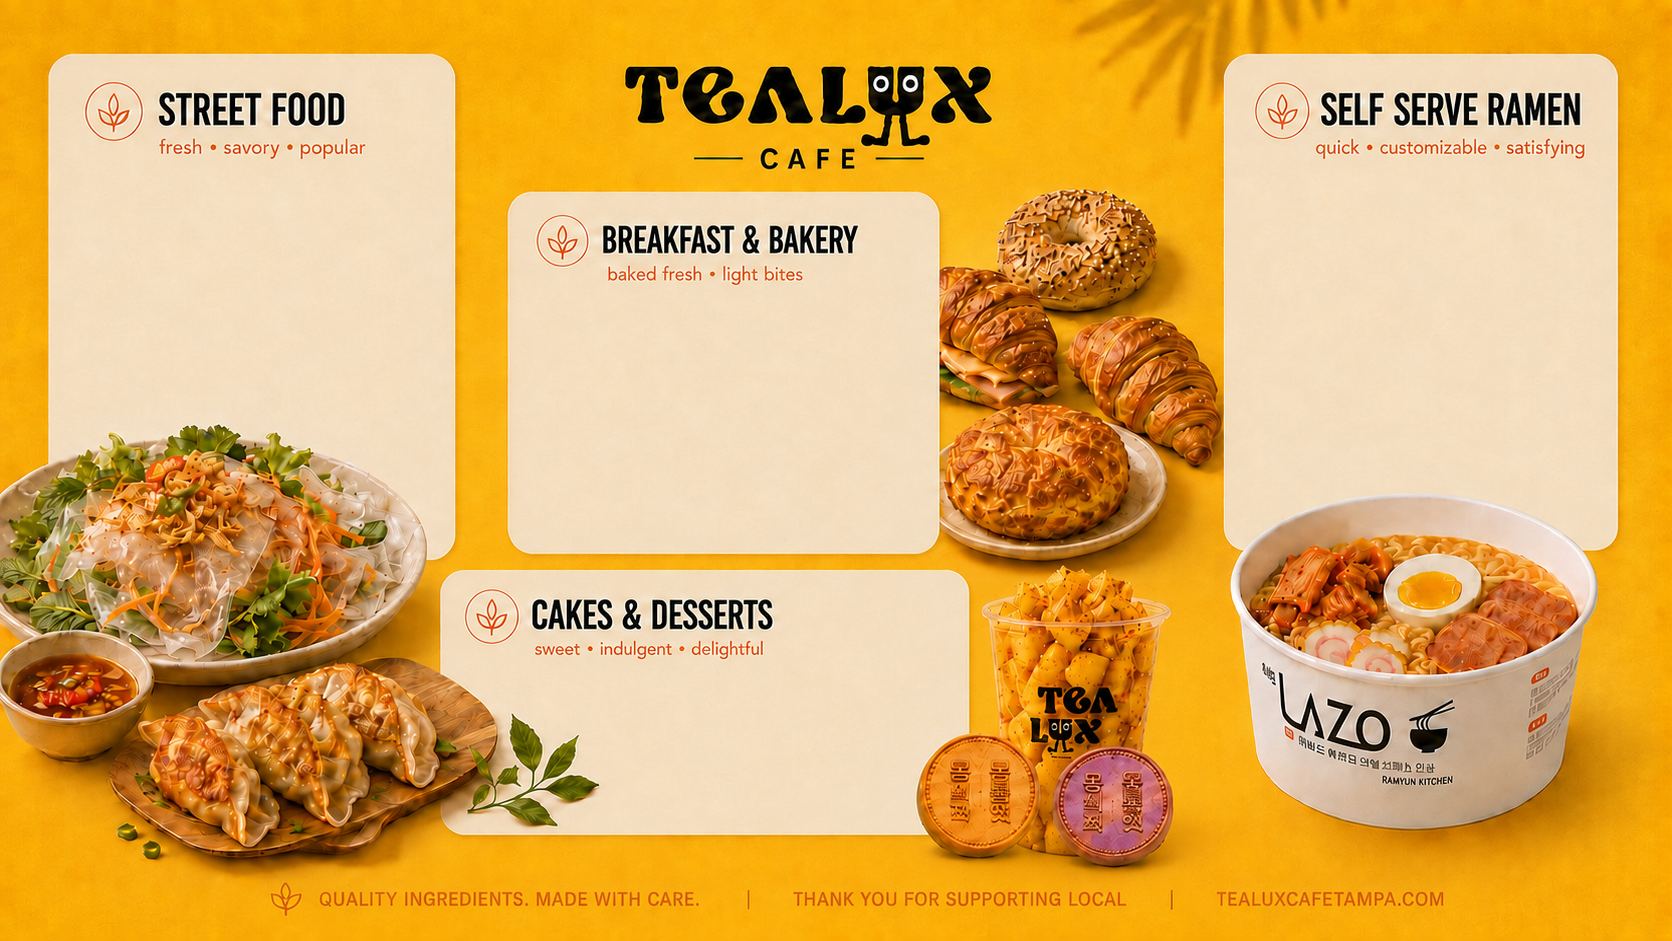
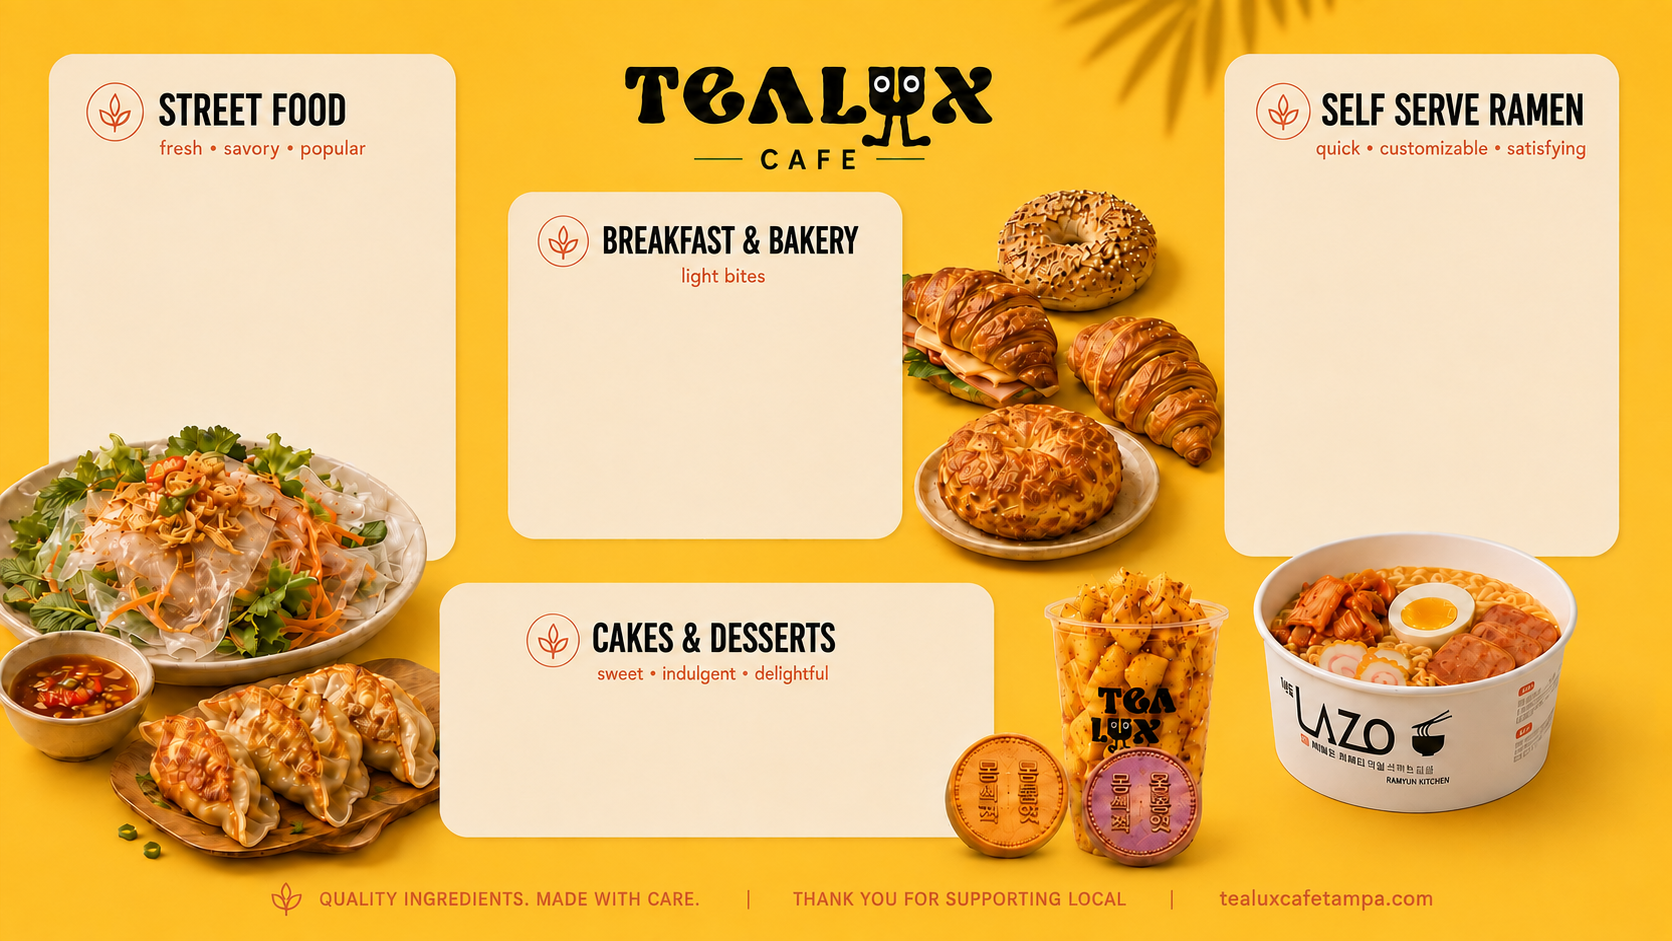
Swap in updated Screen 3 art, source ramen toppings from item description
New background image replaces the one from the previous commit (box
positions shifted again), so all 5 box coordinates were re-measured.

Self Serve Ramen's toppings line now reads from the priced item's
Description field instead of a separate manual field in the board editor,
removing a duplicate place to edit the same text.

diff --git a/admin/board.html b/admin/board.html
@@ -146,9 +146,6 @@
           if ((pe.free_toppings_count || 0) !== (ne.free_toppings_count || 0)) {
             lines.push(`${label}: free toppings count changed from ${pe.free_toppings_count || 0} to ${ne.free_toppings_count || 0}`);
           }
-          if ((pe.ingredients || '') !== (ne.ingredients || '')) {
-            lines.push(`${label}: ingredients updated`);
-          }
           return;
         }
 
@@ -399,6 +396,12 @@
         .map((i) => `<option value="${i.id}" ${extra.price_item_id === i.id ? 'selected' : ''}>${escapeHtml(i.name)} — ${money(i.price)}</option>`)
         .join('');
 
+      const ingredientsPreview = currentItem
+        ? (currentItem.description
+          ? escapeHtml(currentItem.description)
+          : '<em>No description set — toppings line will be blank on the board.</em>')
+        : '<em>Pick a priced item first.</em>';
+
       card.innerHTML = `
         <div class="section-card-head">
           <h3>${escapeHtml(BOX_LABELS[section.box_key])} <span class="box-tag">${section.box_key} · special</span></h3>
@@ -413,8 +416,12 @@
             <input type="number" min="0" data-ramen-toppings value="${extra.free_toppings_count || 0}" />
           </div>
           <div class="field">
-            <label>Ingredients (shown at bottom of box)</label>
-            <input type="text" data-ramen-ingredients placeholder="Egg • Rice Cake • Kimchi • Dumpling • Spam" value="${escapeHtml(extra.ingredients || '')}" />
+            <label>Toppings list (shown at bottom of box)</label>
+            <p style="font-family:Arial; font-size:0.8rem; opacity:0.7;" data-ramen-ingredients-preview>${ingredientsPreview}</p>
+            <p style="font-family:Arial; font-size:0.7rem; opacity:0.5;">
+              Pulled from the priced item's Description — edit it on
+              <a href="/admin/item.html?id=${currentItem ? currentItem.id : ''}" target="_blank" rel="noopener">that item's page</a>.
+            </p>
           </div>
         </div>
       `;
@@ -422,15 +429,11 @@
       card.querySelector('[data-ramen-item]').addEventListener('change', (e) => {
         section.extra = { ...section.extra, price_item_id: e.target.value || null };
         markDirty();
+        renderSections();
         drawPreview();
       });
       card.querySelector('[data-ramen-toppings]').addEventListener('input', (e) => {
         section.extra = { ...section.extra, free_toppings_count: parseInt(e.target.value, 10) || 0 };
-        markDirty();
-        drawPreview();
-      });
-      card.querySelector('[data-ramen-ingredients]').addEventListener('input', (e) => {
-        section.extra = { ...section.extra, ingredients: e.target.value };
         markDirty();
         drawPreview();
       });

diff --git a/admin/js/board-renderer.js b/admin/js/board-renderer.js
@@ -39,11 +39,11 @@ const BOARD_TEMPLATES = {
   screen_3: {
     image: '/templates/Screen_3.png',
     boxes: [
-      { key: 'street_food', x: 48, y: 54, w: 406, h: 504, contentY: 106, style: 'list' },
-      { key: 'breakfast_bakery', x: 508, y: 192, w: 430, h: 360, contentY: 93, style: 'list' },
-      { key: 'desserts', x: 441, y: 570, w: 251, h: 263, contentY: 90, style: 'list' },
-      { key: 'cakes', x: 717, y: 570, w: 251, h: 263, contentY: 90, style: 'static' },
-      { key: 'self_serve_ramen', x: 1224, y: 54, w: 393, h: 736, contentY: 105, style: 'special' },
+      { key: 'street_food', x: 49, y: 54, w: 405, h: 504, contentY: 106, style: 'list' },
+      { key: 'breakfast_bakery', x: 509, y: 192, w: 392, h: 346, contentY: 95, style: 'list' },
+      { key: 'desserts', x: 440, y: 584, w: 264, h: 252, contentY: 101, style: 'list' },
+      { key: 'cakes', x: 729, y: 584, w: 264, h: 252, contentY: 101, style: 'static' },
+      { key: 'self_serve_ramen', x: 1225, y: 54, w: 393, h: 501, contentY: 106, style: 'special' },
     ],
   },
 };
@@ -356,7 +356,9 @@ function drawRamenBox(ctx, box, section, itemsById) {
   const item = priceItemId ? itemsById[priceItemId] : null;
   const priceStr = (item && item.status !== 'inactive') ? money(item.price) : '—';
   const freeToppings = (section.extra && section.extra.free_toppings_count) || 0;
-  const ingredients = (section.extra && section.extra.ingredients) || '';
+  // Toppings list is just the priced item's Description field (edited via
+  // item.html) — no separate ramen-specific text field to keep in sync.
+  const ingredients = (item && item.description) || '';
 
   ctx.textAlign = 'left';
   ctx.fillStyle = COLOR_ACCENT;

diff --git a/CONTINUE_FROM_HERE.md b/CONTINUE_FROM_HERE.md
@@ -2,38 +2,54 @@
 
 Last worked on: 2026-08-15. Read this before doing anything else on the admin tool.
 
-## In progress: Screen 3 redesign (2026-08-15) — committed and pushed, DB migration run, NOT yet click-tested live
+## In progress: Screen 3 redesign (2026-08-15) — migration_006 run live, migration_007 NOT yet run, NOT yet click-tested live
 
-New background art dropped in (`templates/examples/ChatGPT Image Aug 15, 2026, 10_54_51 AM.png`,
-now copied to `templates/Screen_3.png`) with different box positions than the old design, plus a
-content change: the old single "Cakes & Desserts" box is now two side-by-side columns —
-"Desserts" (still a real editable item list: Tofu Dessert, Mango Shake, Korean Cheese Coin, Korea
-Ube Cheese Coin) and "Cakes" (cakes rotate daily, so instead of listing them it's now a fixed
-"please see cashier for today's specials" message — new box style `'static'`, no items, nothing
-to edit).
+New background art dropped in twice today — the first version
+(`ChatGPT Image Aug 15, 2026, 10_54_51 AM.png`) was superseded within the same session by a second
+(`ChatGPT Image Aug 15, 2026, 11_55_00 AM.png`, "use this one instead"), both archived in
+`templates/examples/`. **`templates/Screen_3.png` is currently the 11:55 AM version** — box
+coordinates in `board-renderer.js` were re-measured a second time against it (all 5 boxes shifted
+again vs. the first version; not a straight recolor either time). Content change from the first
+round still stands: the old single "Cakes & Desserts" box is two side-by-side columns —
+"Desserts" (real editable item list: Tofu Dessert, Mango Shake, Korean Cheese Coin, Korea Ube
+Cheese Coin) and "Cakes" (fixed `'static'`-style "please see cashier for today's specials"
+message, cakes rotate daily so no item list).
+
+Also changed today: **Self Serve Ramen's toppings line now comes from the priced item's
+Description field** (edited in `item.html`) instead of a separate manual "Ingredients" text box in
+the board editor — one less place to keep the same text in sync. User asked to "add items for the
+self serve ramen menu"; clarified via question that this meant sourcing the toppings list from the
+item, not adding a real multi-item list to the box (it stays a one-priced-item `'special'` layout).
 
 Changed:
-- `admin/js/board-renderer.js` — all 5 screen_3 box coordinates re-measured (PIL color-boundary
-  scan) against the new background; `cakes_desserts` box replaced by `desserts` (list) + `cakes`
-  (new `static` style, draws `CAKES_STATIC_TEXT` centered/wrapped, no section data needed).
+- `admin/js/board-renderer.js` — screen_3 box coordinates (2nd re-measure, PIL color-boundary
+  scan); `drawRamenBox` now reads `ingredients` from `itemsById[priceItemId].description` instead
+  of `section.extra.ingredients`.
 - `admin/board.html` — `BOX_LABELS`, `ensureSectionsForTemplate`, `renderSections` (new
-  `renderStaticSectionCard`), `diffSections` all updated for the new box_keys and `static` style.
+  `renderStaticSectionCard`), `diffSections` updated for the desserts/cakes split; ramen card's
+  manual "Ingredients" input replaced with a read-only preview of the picked item's description
+  + a link to edit it on that item's page.
 - `supabase/migration_006_screen3_desserts_split.sql` — **run on the live DB 2026-08-15, no
   errors.** Widened the `sections.style` check constraint to allow `'static'`, renamed the live
-  `cakes_desserts` section to `desserts` (keeps its existing section_items), stripped the 8
-  rotating cake items out of it (they stay in the catalog, just unlinked from this board), and
-  inserted the new static `cakes` section.
-- `supabase/seed_boards.sql`, `supabase/seed_items.sql` — updated so a *fresh* install seeds the
-  new `desserts`/`cakes` box_keys directly instead of the old `cakes_desserts`.
-- `admin/SETUP.md` — documents `migration_006` as step 8 in the run order.
+  `cakes_desserts` section to `desserts`, stripped the 8 rotating cake items out of it (stay in
+  the catalog, unlinked from this board), inserted the new static `cakes` section.
+- `supabase/migration_007_ramen_ingredients_from_item.sql` — **new, NOT yet run on the live DB.**
+  Backfills the "Self Serve Ramen" item's Description from the old `extra.ingredients` value, then
+  drops that key from `extra`. **Must run before this deploys**, or the live board's toppings line
+  goes blank (old `extra.ingredients` still has the text, but the renderer stops reading it as of
+  this commit).
+- `supabase/seed_boards.sql`, `supabase/seed_items.sql` — fresh installs seed `desserts`/`cakes`
+  directly, and seed the ramen item's Description instead of `extra.ingredients`.
+- `admin/SETUP.md` — documents both migrations (steps 8–9) and the ramen-description behavior.
 
-Coordinate accuracy was checked by rendering the real `board-renderer.js` against mock data in a
-browser (not against live data in the actual admin tool) — all 5 boxes lined up correctly against
-the new art. **Still needs a real click-through of Screen 3 in `board.html` with live data** to
-confirm nothing looks off in practice — nobody has done that yet.
+Coordinate accuracy was checked by drawing measured rectangles over the source PNG with PIL and
+eyeballing the overlay (pixel-precise) — not by rendering the real admin tool against live data.
+**Still needs a real click-through of Screen 3 in `board.html`** to confirm nothing looks off in
+practice, including the shorter Self Serve Ramen box (h=501 vs the old 736 — math checks out on
+paper: content needs ~472px, box has 501, but hasn't been seen rendered).
 
 One known cosmetic issue, not yet addressed: the Desserts column is narrower than the old combined
-box (251px vs 720px), so "Korean Cheese Coin" and "Korea Ube Cheese Coin" truncate to "Korean
+box (264px vs 720px), so "Korean Cheese Coin" and "Korea Ube Cheese Coin" truncate to "Korean
 Che…" on the rendered board. Flagged to the user 2026-08-15, no decision yet on whether to shorten
 those item names or leave it.
 

diff --git a/admin/SETUP.md b/admin/SETUP.md
@@ -11,8 +11,9 @@ In the Supabase dashboard for this project (bayaotnzbzhotfrupzhx), in **SQL Edit
 6. `supabase/migration_004_inactive_status.sql` — adds `'inactive'` as a valid `items.status`, for items that should be excluded from every menu board.
 7. `supabase/migration_005_edit_history.sql` — adds the `edit_history` table, powering the "Recent Changes" panel on `item.html` and `board.html`.
 8. `supabase/migration_006_screen3_desserts_split.sql` — adds `'static'` as a valid `sections.style` and splits Screen 3's Cakes & Desserts box into an editable "Desserts" column and a fixed-message "Cakes" column. Safe to run before or after `seed_boards.sql`/`seed_items.sql`.
+9. `supabase/migration_007_ramen_ingredients_from_item.sql` — moves Self Serve Ramen's toppings list from `sections.extra.ingredients` into the priced item's Description field.
 
-If you're setting this up fresh (no `schema.sql` run yet), just run all eight in order.
+If you're setting this up fresh (no `schema.sql` run yet), just run all nine in order.
 
 ## 2. Create employee accounts
 
@@ -39,7 +40,7 @@ Nothing extra needed — `/admin/` ships with the rest of the site on the next N
 
 - Each item row auto-shrinks font size (and falls back to two columns) if the assigned items don't fit the box — this is what the prompt doc called "auto-compacting layout."
 - An item's `group_label` (set per-board, per-item in the editor) renders as a subheading like "SIGNATURE BLENDS" above it; consecutive items sharing a label are grouped under one subheading.
-- The "Self Serve Ramen" box is a one-off layout (`style: 'special'`): pick one catalog item for its price, set a free-toppings count and an ingredients string — the numbered steps are fixed copy in the renderer, not editable.
+- The "Self Serve Ramen" box is a one-off layout (`style: 'special'`): pick one catalog item for its price and set a free-toppings count — the numbered steps are fixed copy in the renderer, not editable. The toppings line at the bottom of the box is that item's Description field (edit it on the item's own page in `item.html`), not a separate field in the board editor.
 - Screen 3's "Cakes" box is `style: 'static'` — cakes rotate daily, so instead of an item list it always renders a fixed "please see cashier for today's specials" message (`CAKES_STATIC_TEXT` in `board-renderer.js`). Nothing to edit in the admin tool; its section card is just a note.
 - Adding a genuinely new screen design later means measuring its box coordinates and adding an entry to `BOARD_TEMPLATES` in `board-renderer.js` — there's no generic drag-and-drop layout builder.
 - **Board photos** are separate from the box template system: freeform user-uploaded images (`board_images` table), positioned/sized in the board's own pixel space (not the reference-template scale), dragged/resized via on-canvas handles in `/admin/board.html`. They render as their own layer strictly between the background and the box text layer, so a photo can never cover an item list — text always wins. Position/size persist to the DB immediately on drag-end, independent of the sections "Save" button.
